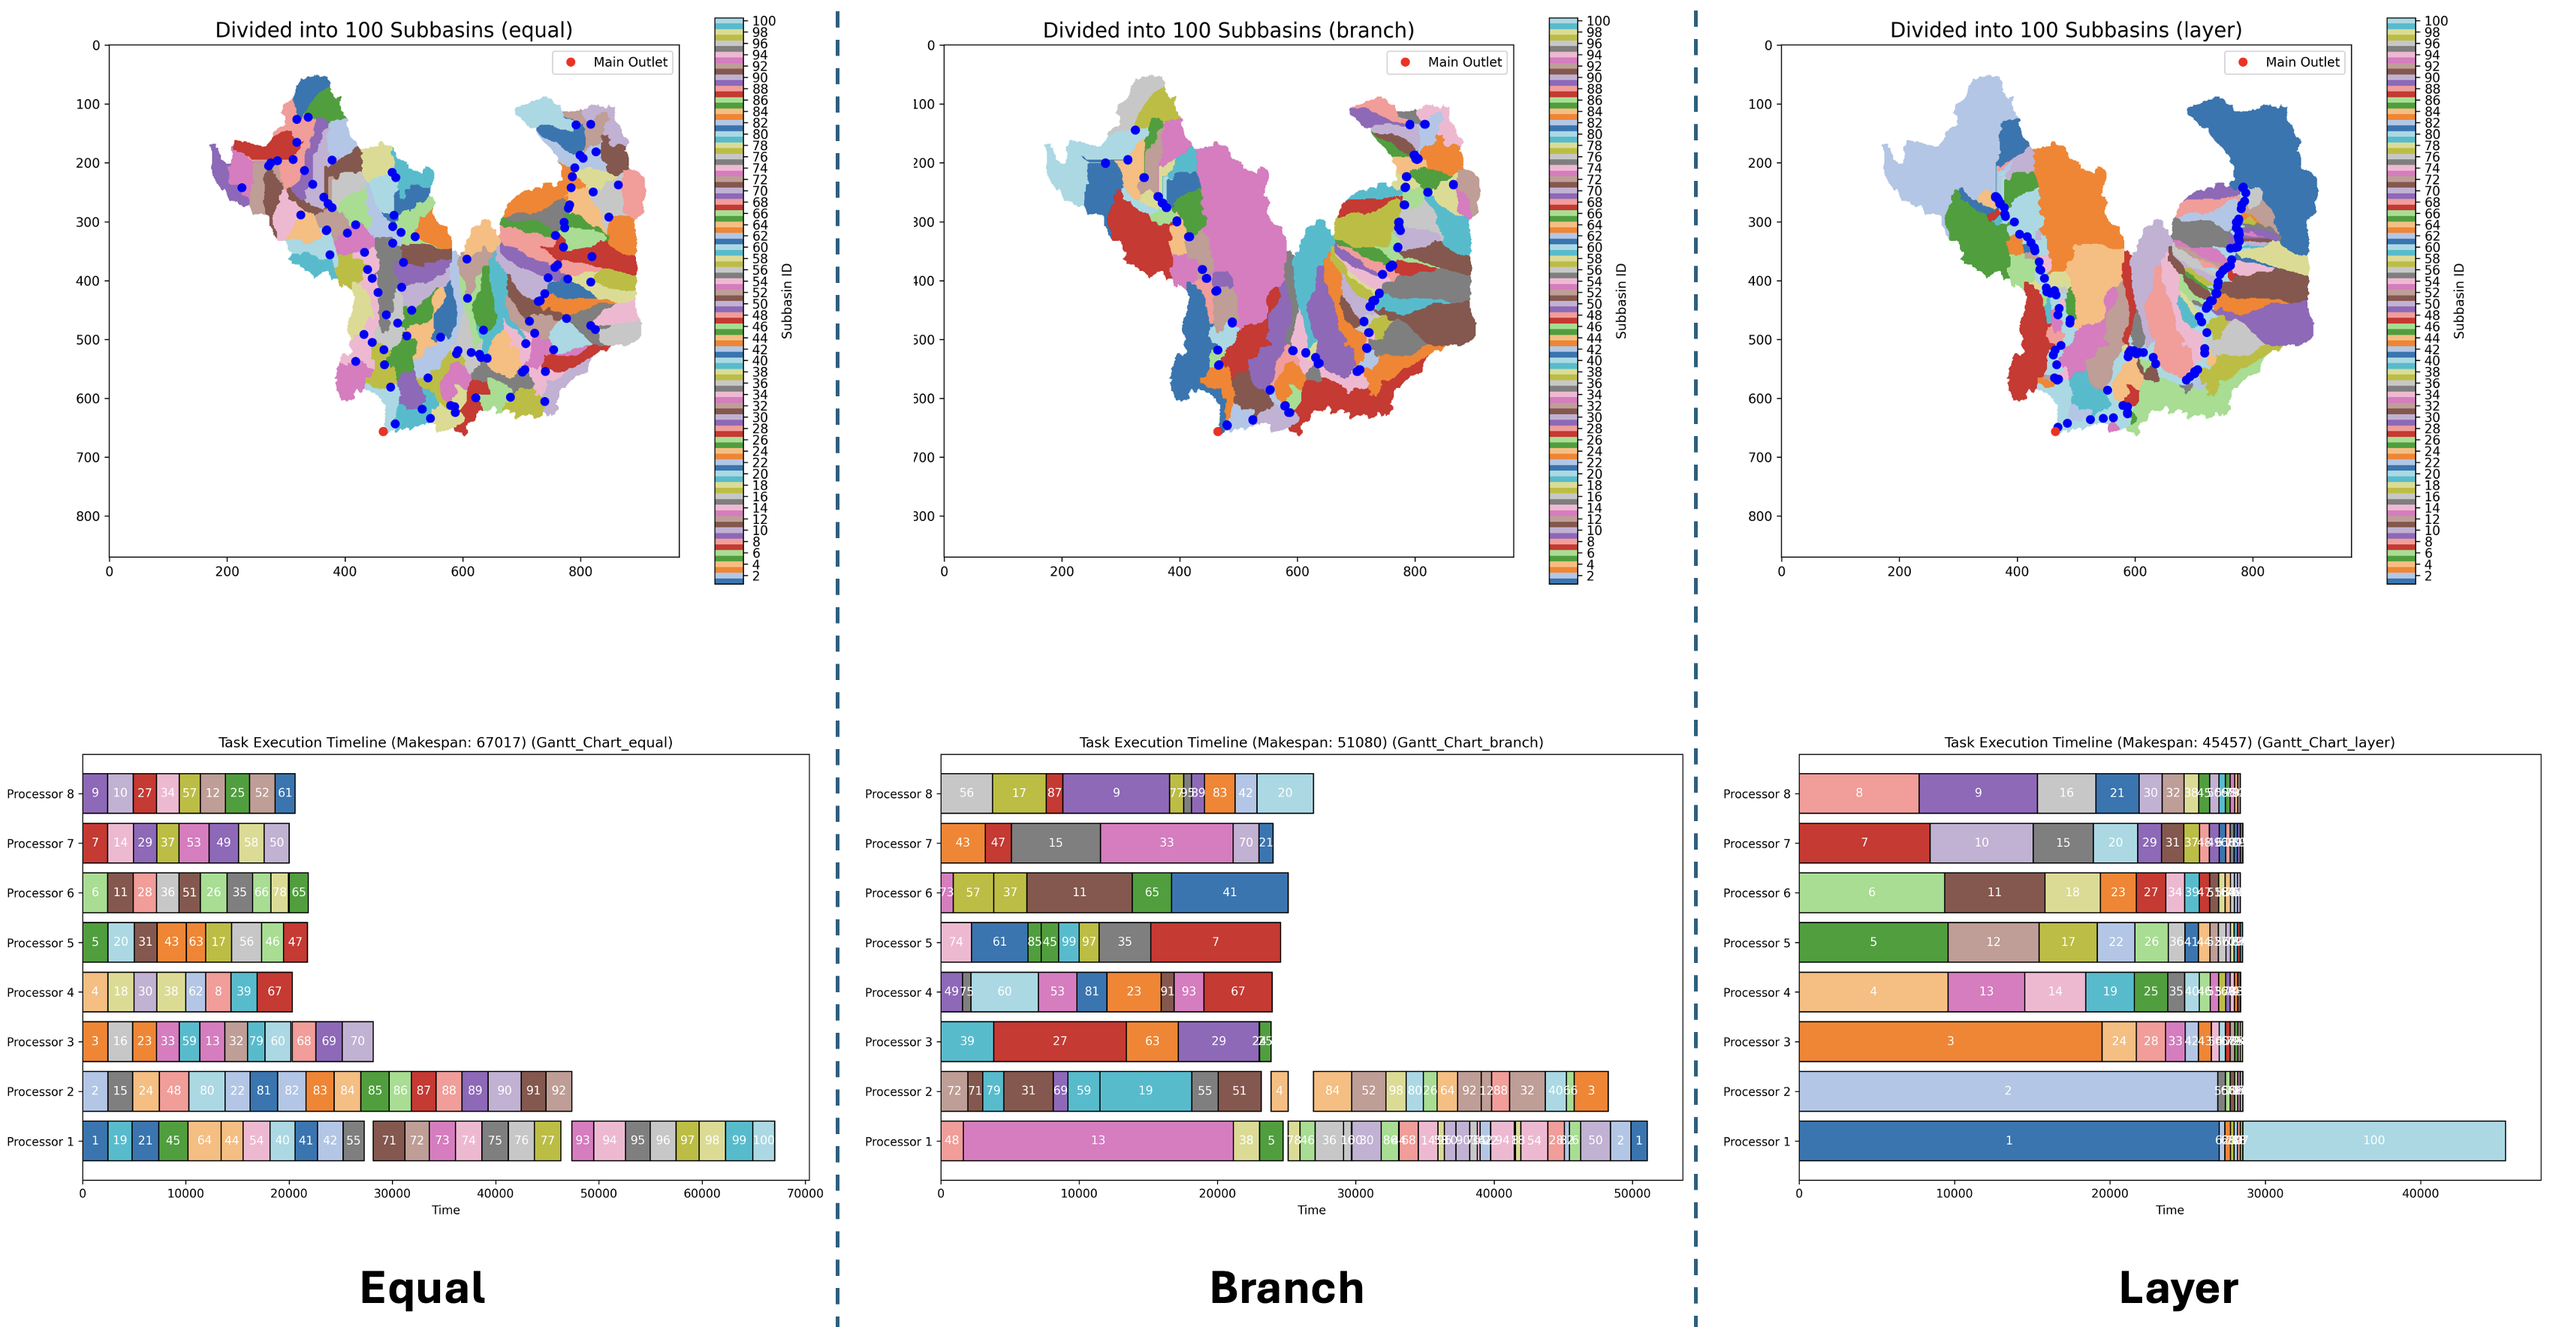
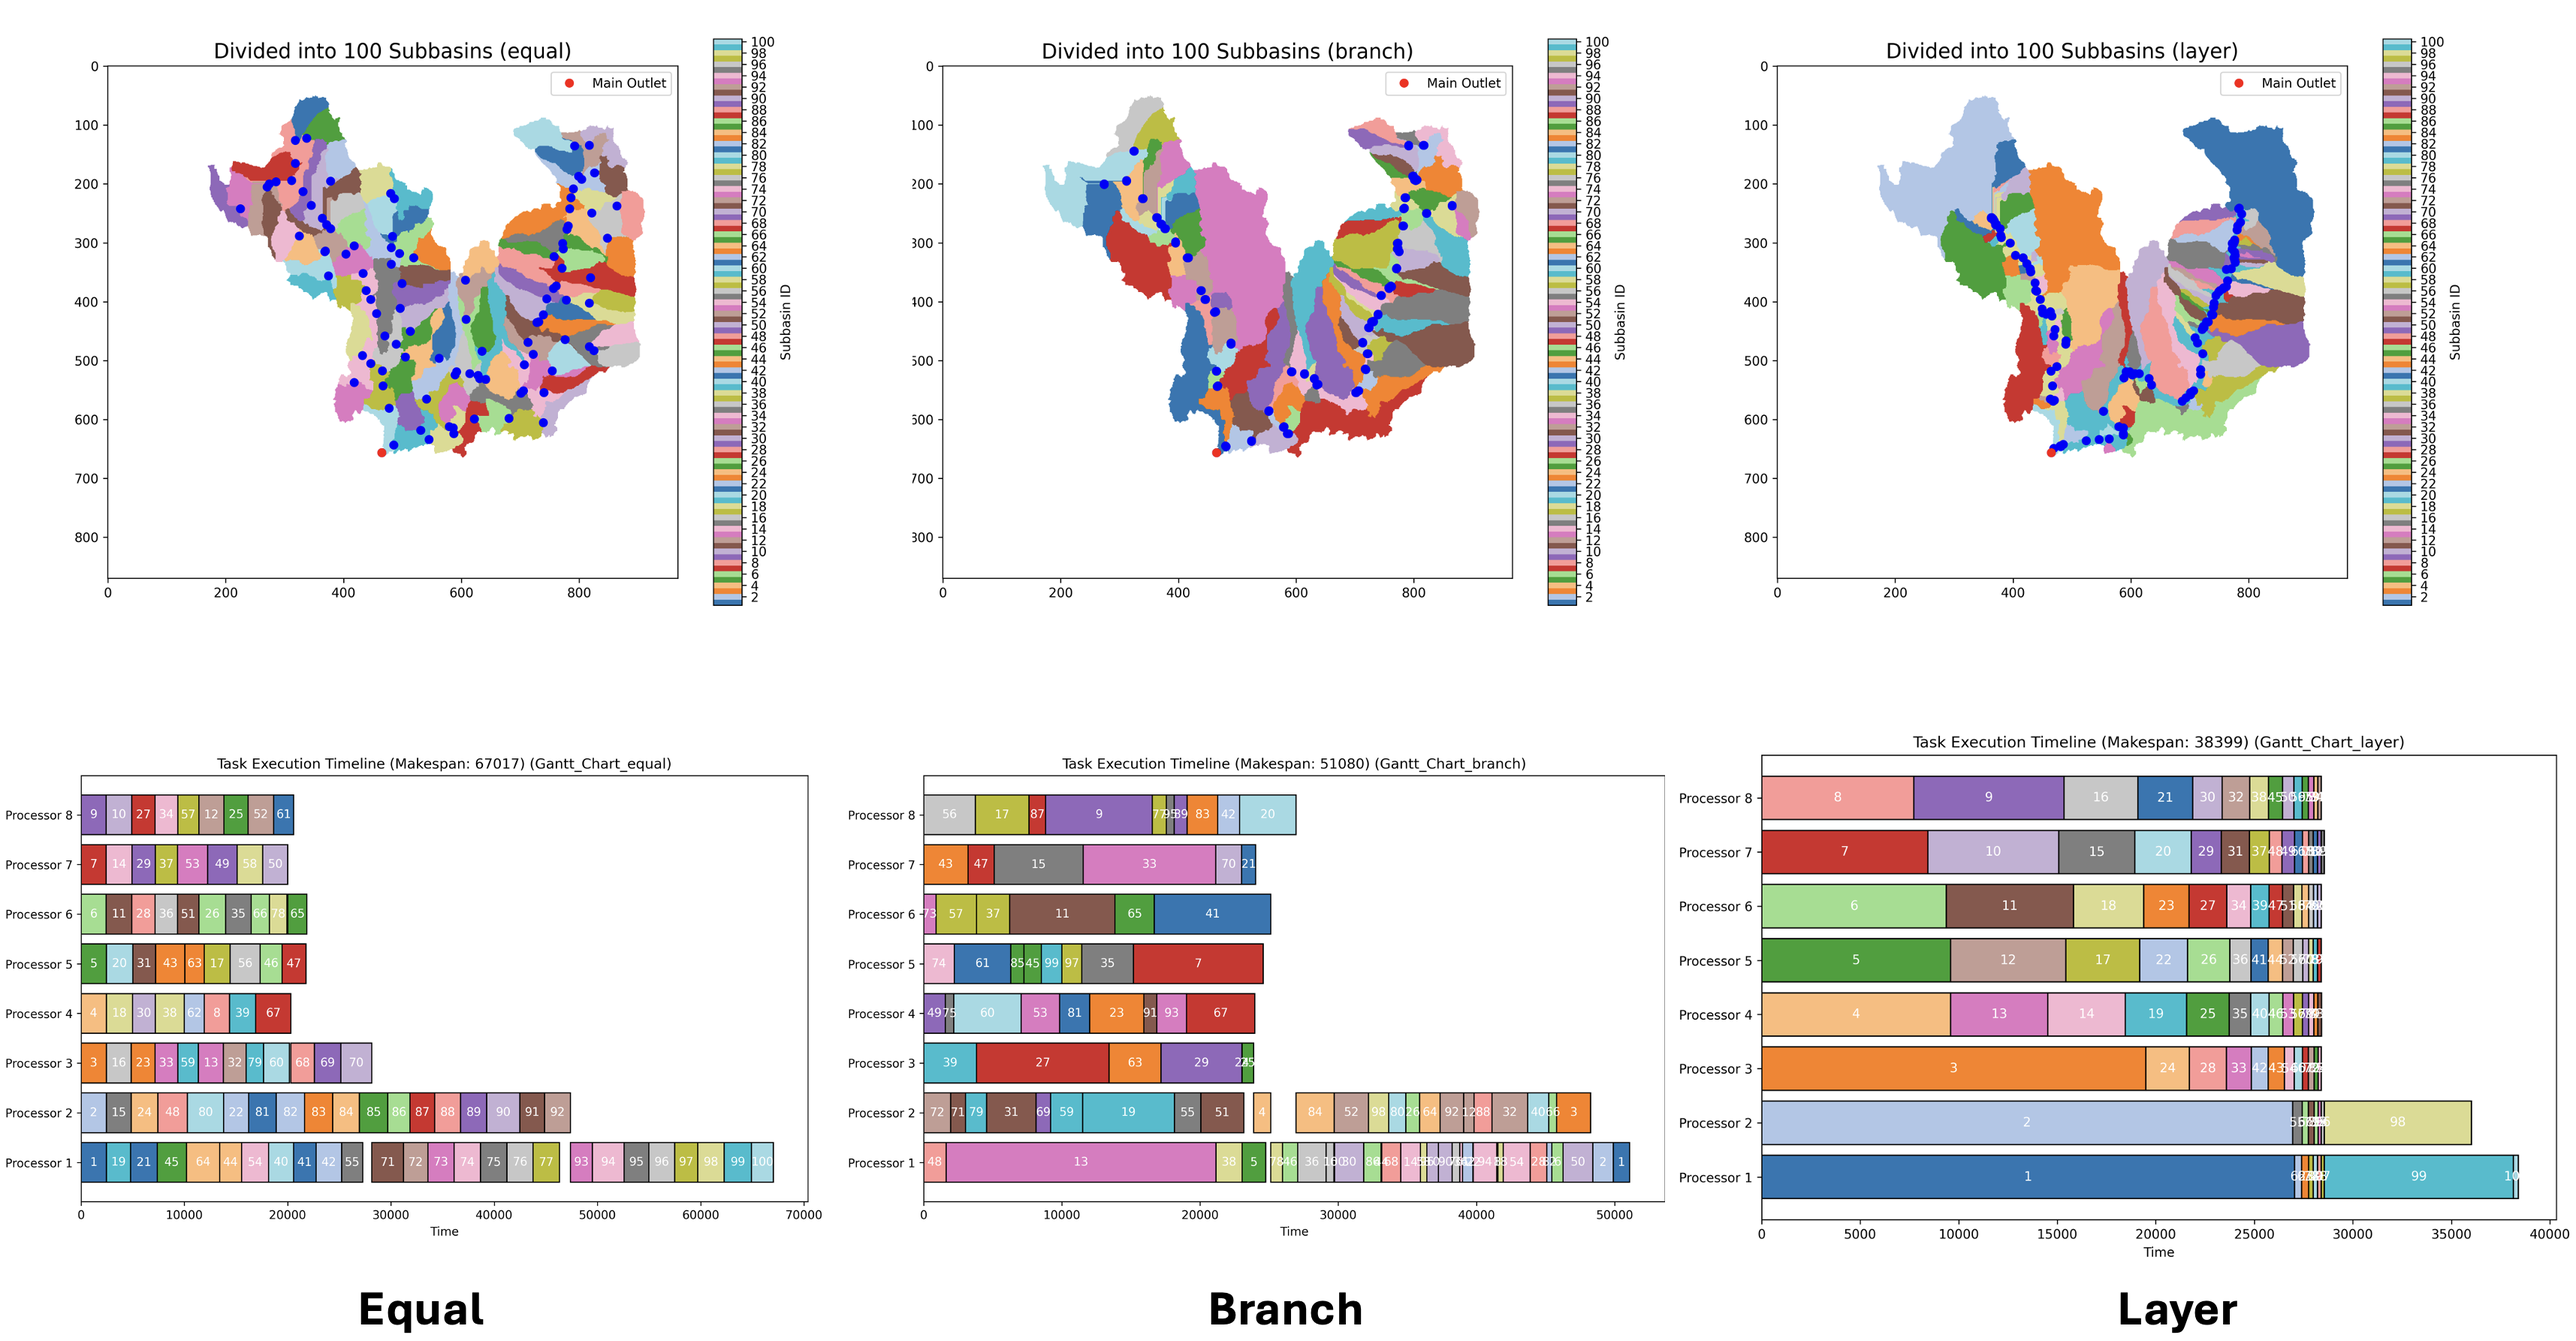
v0.2

diff --git a/divide_catchments.py b/divide_catchments.py
@@ -284,7 +284,7 @@ def build_branch(fdir, threshold=None, plot=False):
 
     return branch
 
-def find_upstream(acc, fdir,threshold=None,return_value=False):
+def find_upstream(acc, fdir,threshold=None,return_value=False,return_main=False,tmp_acc=None):
     
     d8_offsets = {
         1: (0, 1),      
@@ -334,24 +334,49 @@ def find_upstream(acc, fdir,threshold=None,return_value=False):
         candidates_set = set(map(tuple, candidates)) 
         
         upstream_points = []
+       
         
         for r, c in candidates: 
             current_upstreams = []        
             for direction, (dr, dc) in d8_offsets.items():
                 nr, nc = r - dr, c - dc   
                 if (nr, nc) in candidates_set and fdir[nr, nc] == direction:
-                    current_upstreams.append((acc[nr, nc], [nr, nc]))
-                    
-                    
-            if len(current_upstreams) > 1:
-                upstream_points.extend(current_upstreams)
+                    acc_value=acc[nr, nc] if not return_main else tmp_acc[nr,nc] 
+                    current_upstreams.append((acc_value, [nr, nc])) 
+            if return_main: 
+                if len(current_upstreams) >= 1:   
+                    current_upstreams.sort(reverse=True)
+                    upstream_points.append(current_upstreams[0]) 
+            else:       
+                if len(current_upstreams) > 1:
+                    upstream_points.extend(current_upstreams)
         upstream_points.sort()
         best_upstream_points = [item[1] for item in upstream_points]
-        best_criterion_value = upstream_points[0][0]
+        best_criterion_value = upstream_points[0][0] 
         
         
     return best_upstream_points if not return_value else best_criterion_value 
-  
+
+def find_downstream(fdir,target_points,main_stream_points):
+    d8_offsets = {
+        1: (0, 1),      
+        2: (1, 1),      
+        4: (1, 0),      
+        8: (1, -1),     
+        16: (0, -1),    
+        32: (-1, -1),  
+        64: (-1, 0),   
+        128: (-1, 1)    
+    }
+    r,c=target_points
+    dr,dc=d8_offsets[fdir[r,c]]
+    nr=r+dr
+    nc=c+dc
+   
+    return True if [nr,nc] in main_stream_points else False
+        
+    
+    
 def divide_catchments(asc_file, col, row, num_processors, num_subbasins, method='layer', crs="EPSG:26910", is_plot=False,target_size=None):
     # Initialize the Grid object and add DEM data
     grid = Grid.from_ascii(asc_file, crs=Proj(crs))
@@ -404,6 +429,18 @@ def divide_catchments(asc_file, col, row, num_processors, num_subbasins, method=
                 target_point = np.unravel_index(
                     np.argmax(np.where(acc_masked < target_size, acc_masked, -np.inf)), acc_masked.shape
                 )
+                tmp_acc=grid.accumulation(fdir*tmp_catchment_mask)
+                main_stream_points=find_upstream(acc_masked,fdir*tmp_catchment_mask,threshold=target_size,return_main=True,tmp_acc=tmp_acc)
+                tmp_tmp_catchment_mask=tmp_catchment_mask.copy()
+                while not find_downstream(fdir,target_point,main_stream_points):
+                    tmp_catchment=grid.catchment(x=target_point[1], y=target_point[0], fdir=fdir, xytype="index")
+                    tmp_mask=grid.view(tmp_catchment)
+                    tmp_tmp_catchment_mask[tmp_mask==1]=0
+                    tmp_acc_masked=acc*tmp_tmp_catchment_mask
+                    target_point = np.unravel_index(
+                    np.argmax(np.where(tmp_acc_masked < target_size, tmp_acc_masked, -np.inf)), tmp_acc_masked.shape
+                )
+                    
                 
                 # Extract the catchment (all upstream cells of the selected point)
                 sub_catchment = grid.catchment(x=target_point[1], y=target_point[0], fdir=fdir, xytype="index")
